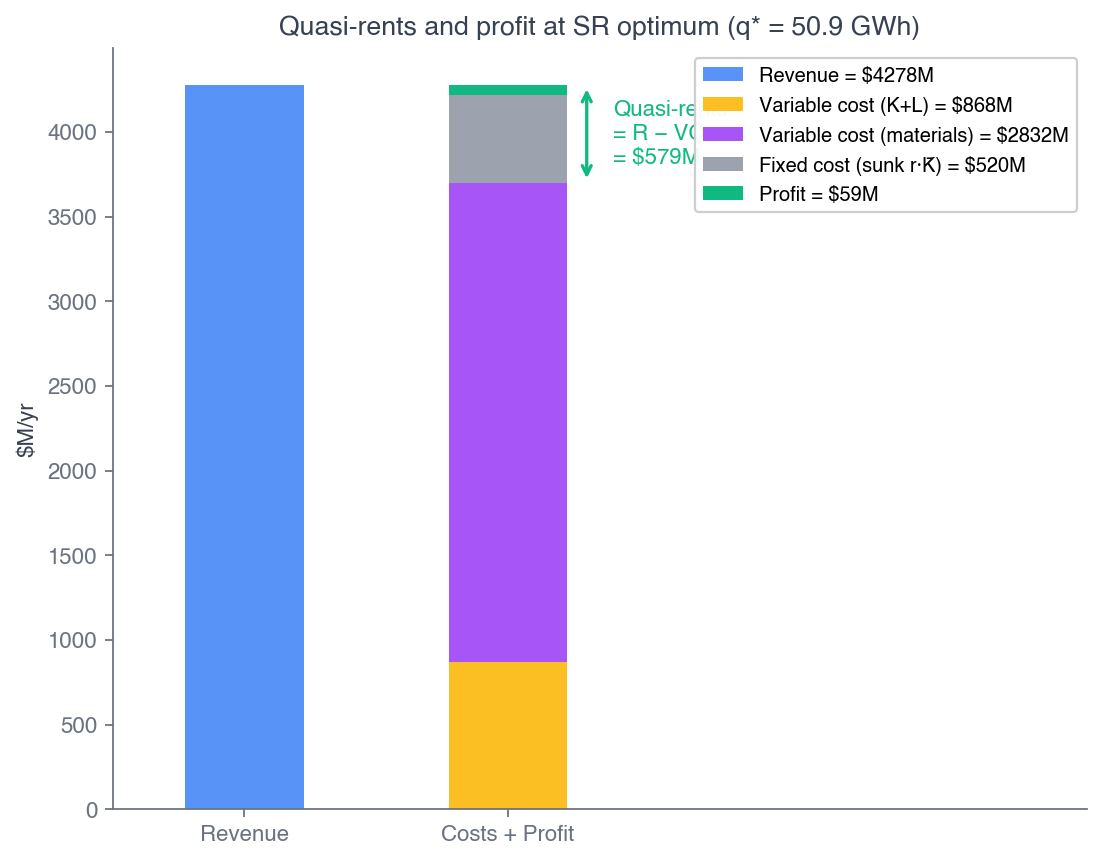
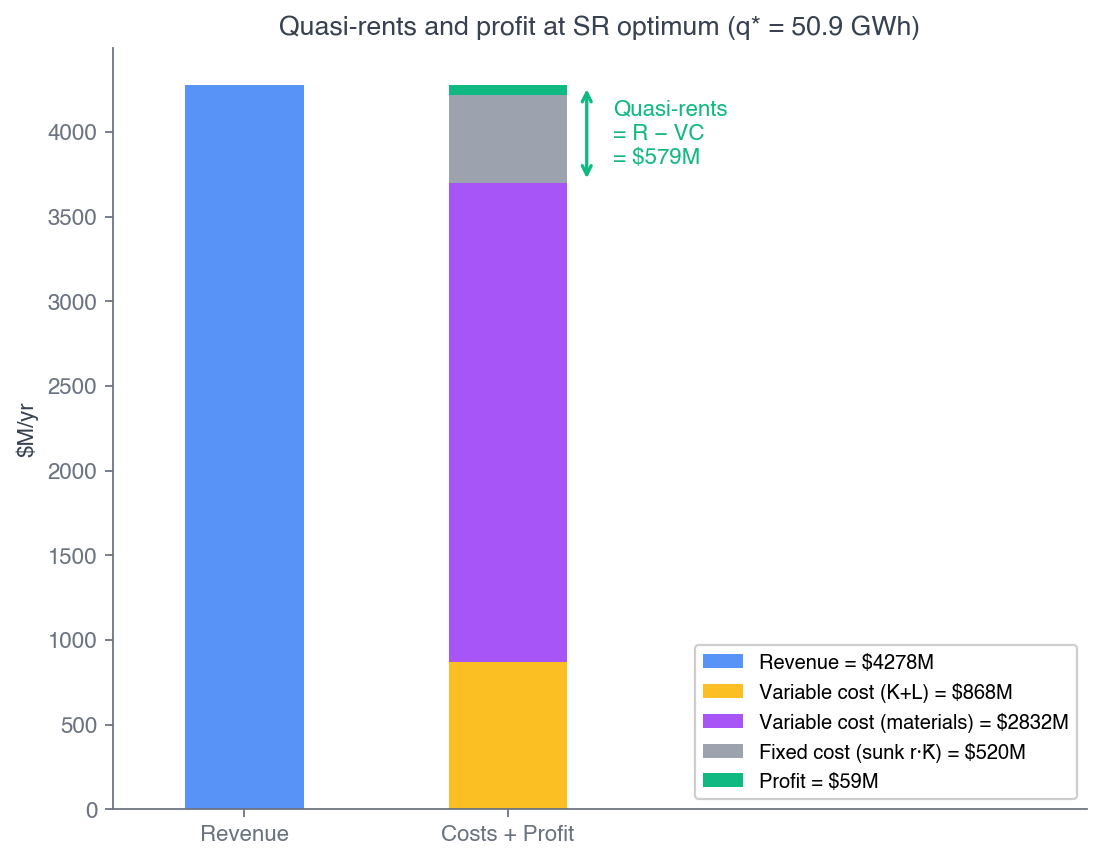
ch09 (2316): industry supply slide + figure-9-9 legend fix + W9.4 0.058 provenance (93 slides)
- After page 71 (§9.4 divider): new 'Short-Run Supply Curve for a Perfectly
  Competitive Industry' slide — price-taking recap, market price = S&D, and
  market supply = horizontal sum of firms' supply curves S(p)=sum s_i(p), with
  an inline horizontal-sum SVG (firm curve vs flatter market curve, q vs Q).
- figure-9-9 (quasi-rents, now p82): legend moved upper-right -> lower-right so
  it no longer covers the 'Quasi-rents = R - VC = $579M' annotation.
- Walkthrough 9.4 (now p84): added provenance note for 0.058 = labor VC wL(10)
  = 0.10*(10/13.929)^(1/0.6), and 0.556 = mq materials VC.

Changed region(s): [[0.6171, 0.0603, 0.9873, 0.2413], [0.6171, 0.7541, 0.9873, 0.935]]

diff --git a/econ2316/ch09-profit-max-supply/index.html b/econ2316/ch09-profit-max-supply/index.html
@@ -1506,6 +1506,52 @@
   <p class="subtitle">\(q^*(p) = MC^{-1}(p)\) &middot; above the shutdown price</p>
 </section>
 
+<!-- ===== Slide 17b — §9.4 industry supply = horizontal sum (added per request) ===== -->
+<section id="industry-supply">
+  <h2><i class="fa-solid fa-layer-group" style="color: var(--accent-color);"></i> The Short-Run Supply Curve for a Perfectly Competitive Industry</h2>
+  <div style="display: grid; grid-template-columns: 1fr 1.08fr; gap: 24px; align-items: center;">
+    <div style="display: flex; flex-direction: column; gap: 11px;">
+      <div style="background: #f0f5f8; border-left: 4px solid var(--secondary-color); border-radius: 8px; padding: 11px 16px;">
+        <p style="margin: 0; font-size: 13pt; line-height: 1.5;">Each firm is a <strong>price taker</strong>: its output is a drop in the ocean, so <strong>no single firm can affect the market price</strong>.</p>
+      </div>
+      <div style="background: #fef9f3; border-left: 4px solid var(--accent-color); border-radius: 8px; padding: 11px 16px;">
+        <p style="margin: 0; font-size: 13pt; line-height: 1.5;">The market price is set instead by the <strong>interaction of market supply and market demand</strong>.</p>
+      </div>
+      <div class="key-result" style="margin: 0; padding: 11px 16px;">
+        <p style="margin: 0; font-size: 13pt; line-height: 1.5;"><strong>Market supply</strong> is the <strong>horizontal sum</strong> of all individual firms' supply curves: at each price, add up the quantity every firm produces, \(S(p) = \sum_i s_i(p)\).</p>
+      </div>
+    </div>
+    <div style="text-align: center;">
+      <svg viewBox="0 0 480 360" role="img" aria-label="At a given price p, market supply is the horizontal sum of firm supply curves: the market quantity Q lies far to the right of a single firm's quantity q." style="width:100%; max-width:470px; height:auto; font-family: Helvetica, Arial, sans-serif;">
+        <defs>
+          <marker id="hsum-arrow-end" markerWidth="8" markerHeight="8" refX="5" refY="3" orient="auto"><path d="M0,0 L6,3 L0,6 Z" fill="#C47B5A"/></marker>
+          <marker id="hsum-arrow-start" markerWidth="8" markerHeight="8" refX="1" refY="3" orient="auto"><path d="M6,0 L0,3 L6,6 Z" fill="#C47B5A"/></marker>
+        </defs>
+        <line x1="70" y1="20" x2="70" y2="310" stroke="#6b7280" stroke-width="1.5"/>
+        <line x1="70" y1="310" x2="468" y2="310" stroke="#6b7280" stroke-width="1.5"/>
+        <text x="55" y="29" font-size="13" fill="#374151" font-weight="700">P</text>
+        <text x="470" y="316" font-size="13" fill="#374151" font-weight="700">Q</text>
+        <line x1="70" y1="124" x2="241" y2="124" stroke="#9ca3af" stroke-width="1" stroke-dasharray="4 3"/>
+        <line x1="119" y1="124" x2="119" y2="310" stroke="#9ca3af" stroke-width="1" stroke-dasharray="4 3"/>
+        <line x1="241" y1="124" x2="241" y2="310" stroke="#9ca3af" stroke-width="1" stroke-dasharray="4 3"/>
+        <text x="48" y="129" font-size="13" fill="#374151" font-style="italic">p</text>
+        <polyline points="70,250 79,208 97,166 119,124 145,82 175,40" fill="none" stroke="#6B8BA4" stroke-width="2.5"/>
+        <polyline points="70,250 103,208 163,166 241,124 333,82 438,40" fill="none" stroke="#C47B5A" stroke-width="3"/>
+        <line x1="126" y1="118" x2="234" y2="118" stroke="#C47B5A" stroke-width="1.3" marker-start="url(#hsum-arrow-start)" marker-end="url(#hsum-arrow-end)"/>
+        <text x="181" y="109" font-size="10.5" fill="#9b6a4f" text-anchor="middle">horizontal sum</text>
+        <circle cx="119" cy="124" r="4" fill="#6B8BA4"/>
+        <circle cx="241" cy="124" r="4.5" fill="#C47B5A"/>
+        <text x="112" y="327" font-size="13" fill="#6B8BA4" font-style="italic" font-weight="700">q</text>
+        <text x="234" y="327" font-size="13" fill="#C47B5A" font-style="italic" font-weight="700">Q</text>
+        <text x="235" y="50" font-size="11.5" fill="#C47B5A" font-weight="700">Market supply S(p)</text>
+        <text x="152" y="92" font-size="11.5" fill="#6B8BA4" font-weight="700">Firm supply s(p)</text>
+      </svg>
+    </div>
+  </div>
+  <p style="font-size: 11pt; color: var(--muted-color); font-style: italic; margin: 12px 0 0; text-align: center;">To build the market curve we first need each firm's piece &mdash; next: a firm's supply is simply its rising \(MC\) above min AVC.</p>
+  <aside class="notes">§9.4 framing slide and bridge to Ch 10. Three ideas students already hold the pieces for: (1) price-taking means a single firm cannot move the price (established in §9.1-9.2); (2) the price each firm takes as given is itself the market-clearing price where market supply meets market demand; (3) market supply is the horizontal sum of the individual firm supply curves we are about to derive. The diagram shows what "horizontal" means: at a given price \(p\), the market quantity \(Q\) is the sum of every firm's \(q\), so the market curve sits far to the right of — and is flatter than — a single firm's curve. This motivates the rest of §9.4 (derive one firm's supply = inverse \(MC\)) and hands directly to Ch 10, where summing these curves and adding free entry pins down the equilibrium price we keep locking at \$84/kWh.</aside>
+</section>
+
 <!-- ===== Slide 18 — §9.4 supply = inverse-MC + figure ===== -->
 <section id="supply-inverse-mc">
   <h2><i class="fa-solid fa-arrows-left-right-to-line" style="color: var(--accent-color);"></i> The Supply Curve <em>Is</em> the Rising \(MC\) Curve</h2>
@@ -1789,6 +1835,7 @@
       <p class="fragment fade-up" data-fragment-index="3" style="font-size: 12pt; line-height: 1.55; margin: 6px 0 0;">
         \(VC = 0.058 + 0.556 = 0.614\); revenue \(= 0.334\). Profit \(= 0.334 - 0.614 - 0.52 = -0.800\) B\$/yr.
       </p>
+      <p class="fragment fade-up" data-fragment-index="3" style="font-size: 10pt; color: var(--muted-color); line-height: 1.42; margin: 5px 0 0;">Where is \(0.058\) from? It is the labor variable cost \(wL(10)\): invert \(q = 13.929\,L^{0.6}\) (with \(13.929 = A\bar K^{\alpha}\)) to get \(L(10) = (10/13.929)^{1/0.6} \approx 0.576\), so \(wL = 0.10 \times 0.576 \approx 0.058\). The other piece \(0.556 = mq = 0.0556\times 10\) is materials VC.</p>
       <p class="fragment fade-up" data-fragment-index="4" style="font-size: 12pt; line-height: 1.55; margin: 8px 0 0;">
         \(-\$800\)M is <strong>worse</strong> than the \(-\$520\)M shutdown loss. Any positive \(q\) widens the loss. Shutdown is optimal.
       </p>

diff --git a/econ2316/ch09-profit-max-supply/presentation.html b/econ2316/ch09-profit-max-supply/presentation.html
@@ -1506,6 +1506,52 @@
   <p class="subtitle">\(q^*(p) = MC^{-1}(p)\) &middot; above the shutdown price</p>
 </section>
 
+<!-- ===== Slide 17b — §9.4 industry supply = horizontal sum (added per request) ===== -->
+<section id="industry-supply">
+  <h2><i class="fa-solid fa-layer-group" style="color: var(--accent-color);"></i> The Short-Run Supply Curve for a Perfectly Competitive Industry</h2>
+  <div style="display: grid; grid-template-columns: 1fr 1.08fr; gap: 24px; align-items: center;">
+    <div style="display: flex; flex-direction: column; gap: 11px;">
+      <div style="background: #f0f5f8; border-left: 4px solid var(--secondary-color); border-radius: 8px; padding: 11px 16px;">
+        <p style="margin: 0; font-size: 13pt; line-height: 1.5;">Each firm is a <strong>price taker</strong>: its output is a drop in the ocean, so <strong>no single firm can affect the market price</strong>.</p>
+      </div>
+      <div style="background: #fef9f3; border-left: 4px solid var(--accent-color); border-radius: 8px; padding: 11px 16px;">
+        <p style="margin: 0; font-size: 13pt; line-height: 1.5;">The market price is set instead by the <strong>interaction of market supply and market demand</strong>.</p>
+      </div>
+      <div class="key-result" style="margin: 0; padding: 11px 16px;">
+        <p style="margin: 0; font-size: 13pt; line-height: 1.5;"><strong>Market supply</strong> is the <strong>horizontal sum</strong> of all individual firms' supply curves: at each price, add up the quantity every firm produces, \(S(p) = \sum_i s_i(p)\).</p>
+      </div>
+    </div>
+    <div style="text-align: center;">
+      <svg viewBox="0 0 480 360" role="img" aria-label="At a given price p, market supply is the horizontal sum of firm supply curves: the market quantity Q lies far to the right of a single firm's quantity q." style="width:100%; max-width:470px; height:auto; font-family: Helvetica, Arial, sans-serif;">
+        <defs>
+          <marker id="hsum-arrow-end" markerWidth="8" markerHeight="8" refX="5" refY="3" orient="auto"><path d="M0,0 L6,3 L0,6 Z" fill="#C47B5A"/></marker>
+          <marker id="hsum-arrow-start" markerWidth="8" markerHeight="8" refX="1" refY="3" orient="auto"><path d="M6,0 L0,3 L6,6 Z" fill="#C47B5A"/></marker>
+        </defs>
+        <line x1="70" y1="20" x2="70" y2="310" stroke="#6b7280" stroke-width="1.5"/>
+        <line x1="70" y1="310" x2="468" y2="310" stroke="#6b7280" stroke-width="1.5"/>
+        <text x="55" y="29" font-size="13" fill="#374151" font-weight="700">P</text>
+        <text x="470" y="316" font-size="13" fill="#374151" font-weight="700">Q</text>
+        <line x1="70" y1="124" x2="241" y2="124" stroke="#9ca3af" stroke-width="1" stroke-dasharray="4 3"/>
+        <line x1="119" y1="124" x2="119" y2="310" stroke="#9ca3af" stroke-width="1" stroke-dasharray="4 3"/>
+        <line x1="241" y1="124" x2="241" y2="310" stroke="#9ca3af" stroke-width="1" stroke-dasharray="4 3"/>
+        <text x="48" y="129" font-size="13" fill="#374151" font-style="italic">p</text>
+        <polyline points="70,250 79,208 97,166 119,124 145,82 175,40" fill="none" stroke="#6B8BA4" stroke-width="2.5"/>
+        <polyline points="70,250 103,208 163,166 241,124 333,82 438,40" fill="none" stroke="#C47B5A" stroke-width="3"/>
+        <line x1="126" y1="118" x2="234" y2="118" stroke="#C47B5A" stroke-width="1.3" marker-start="url(#hsum-arrow-start)" marker-end="url(#hsum-arrow-end)"/>
+        <text x="181" y="109" font-size="10.5" fill="#9b6a4f" text-anchor="middle">horizontal sum</text>
+        <circle cx="119" cy="124" r="4" fill="#6B8BA4"/>
+        <circle cx="241" cy="124" r="4.5" fill="#C47B5A"/>
+        <text x="112" y="327" font-size="13" fill="#6B8BA4" font-style="italic" font-weight="700">q</text>
+        <text x="234" y="327" font-size="13" fill="#C47B5A" font-style="italic" font-weight="700">Q</text>
+        <text x="235" y="50" font-size="11.5" fill="#C47B5A" font-weight="700">Market supply S(p)</text>
+        <text x="152" y="92" font-size="11.5" fill="#6B8BA4" font-weight="700">Firm supply s(p)</text>
+      </svg>
+    </div>
+  </div>
+  <p style="font-size: 11pt; color: var(--muted-color); font-style: italic; margin: 12px 0 0; text-align: center;">To build the market curve we first need each firm's piece &mdash; next: a firm's supply is simply its rising \(MC\) above min AVC.</p>
+  <aside class="notes">§9.4 framing slide and bridge to Ch 10. Three ideas students already hold the pieces for: (1) price-taking means a single firm cannot move the price (established in §9.1-9.2); (2) the price each firm takes as given is itself the market-clearing price where market supply meets market demand; (3) market supply is the horizontal sum of the individual firm supply curves we are about to derive. The diagram shows what "horizontal" means: at a given price \(p\), the market quantity \(Q\) is the sum of every firm's \(q\), so the market curve sits far to the right of — and is flatter than — a single firm's curve. This motivates the rest of §9.4 (derive one firm's supply = inverse \(MC\)) and hands directly to Ch 10, where summing these curves and adding free entry pins down the equilibrium price we keep locking at \$84/kWh.</aside>
+</section>
+
 <!-- ===== Slide 18 — §9.4 supply = inverse-MC + figure ===== -->
 <section id="supply-inverse-mc">
   <h2><i class="fa-solid fa-arrows-left-right-to-line" style="color: var(--accent-color);"></i> The Supply Curve <em>Is</em> the Rising \(MC\) Curve</h2>
@@ -1789,6 +1835,7 @@
       <p class="fragment fade-up" data-fragment-index="3" style="font-size: 12pt; line-height: 1.55; margin: 6px 0 0;">
         \(VC = 0.058 + 0.556 = 0.614\); revenue \(= 0.334\). Profit \(= 0.334 - 0.614 - 0.52 = -0.800\) B\$/yr.
       </p>
+      <p class="fragment fade-up" data-fragment-index="3" style="font-size: 10pt; color: var(--muted-color); line-height: 1.42; margin: 5px 0 0;">Where is \(0.058\) from? It is the labor variable cost \(wL(10)\): invert \(q = 13.929\,L^{0.6}\) (with \(13.929 = A\bar K^{\alpha}\)) to get \(L(10) = (10/13.929)^{1/0.6} \approx 0.576\), so \(wL = 0.10 \times 0.576 \approx 0.058\). The other piece \(0.556 = mq = 0.0556\times 10\) is materials VC.</p>
       <p class="fragment fade-up" data-fragment-index="4" style="font-size: 12pt; line-height: 1.55; margin: 8px 0 0;">
         \(-\$800\)M is <strong>worse</strong> than the \(-\$520\)M shutdown loss. Any positive \(q\) widens the loss. Shutdown is optimal.
       </p>
